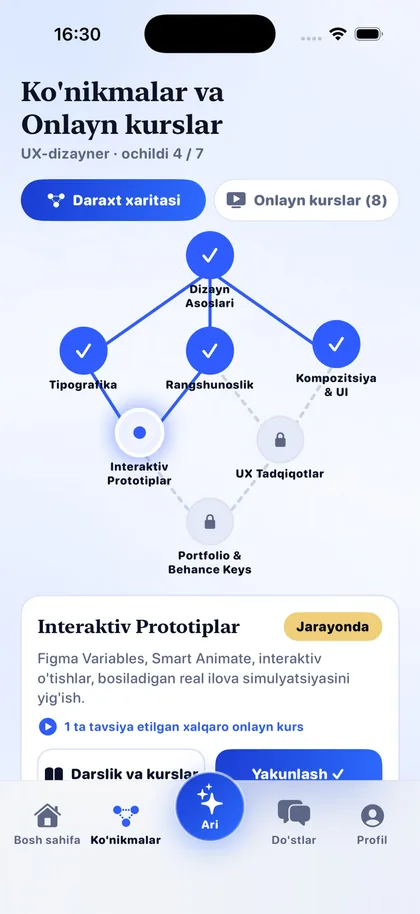
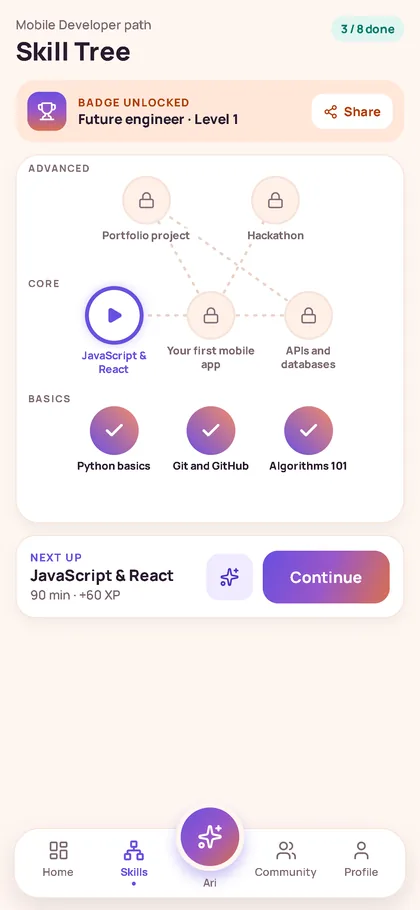
Arise: new app screenshots, arise.nexorastudio.world

diff --git a/site/arise.html b/site/arise.html
@@ -56,7 +56,7 @@
 
     <section class="sec" style="padding-top:0">
       <div class="wrap">
-        <div class="case__media case__media--wide" data-clip style="--glow:#3b5bff"><img src="./assets/shots/arise-skills-720.webp" alt="Arise skill tree for a future UX designer" width="420" height="914" loading="lazy" /><img src="./assets/shots/arise-welcome-720.webp" alt="Arise welcome screen with sign-in by Google, Apple or as a guest" width="420" height="914" loading="lazy" /><img src="./assets/shots/arise-ari-720.webp" alt="Chat with Ari, the AI mentor in Arise" width="420" height="914" loading="lazy" /></div>
+        <div class="case__media case__media--wide" data-clip style="--glow:#3b5bff"><img src="./assets/shots/arise-skills-720.webp" alt="Arise skill tree for a future mobile developer" width="420" height="910" loading="lazy" /><img src="./assets/shots/arise-home-720.webp" alt="Arise home screen with a 12-day streak, the Mobile Developer goal and the next step" width="420" height="910" loading="lazy" /><img src="./assets/shots/arise-ari-720.webp" alt="Chat with Ari, the AI mentor in Arise, about getting into Inha University" width="420" height="910" loading="lazy" /></div>
         <dl class="facts" data-fade><div><dt>Product</dt><dd>Mobile app</dd></div><div><dt>Platforms</dt><dd>iOS and Android</dd></div><div><dt>Languages</dt><dd>Uzbek, Russian, English</dd></div><div><dt>Our role</dt><dd>Product, design, engineering, AI</dd></div><div><dt>Year</dt><dd>2026</dd></div><div><dt>Status</dt><dd>Live · coming to the stores</dd></div></dl>
         <dl class="figs figs--wide" data-fade><div><dt>Languages</dt><dd data-count="3">3</dd></div><div><dt>Platforms</dt><dd data-count="2">2</dd></div><div><dt>Sign-in options</dt><dd data-count="3">3</dd></div></dl>
       </div>
@@ -75,7 +75,7 @@
         <div class="chapter__body">
           <h2 class="cond chapter__title" data-split>A plan for each student, and a mentor to follow it.</h2>
           <div class="features"><div class="feature" data-fade><span class="feature__n">01</span><h3>Personal plan</h3><p>The student picks a goal, for example UX designer. Arise builds a path of skills, courses and next steps around it.</p></div><div class="feature" data-fade><span class="feature__n">02</span><h3>Skill tree</h3><p>Progress is shown as a tree. Finished skills are ticked, the current one is highlighted and the next ones unlock along the way.</p></div><div class="feature" data-fade><span class="feature__n">03</span><h3>Ari, the AI mentor</h3><p>Ari answers questions, explains skills and makes plans, such as a two-week study plan for a future UX designer.</p></div><div class="feature" data-fade><span class="feature__n">04</span><h3>Easy start</h3><p>Sign in with Google or Apple, or try the app as a guest. Light and dark themes are built in.</p></div></div>
-          <div class="shots"><figure class="shot" data-fade><img src="./assets/shots/arise-welcome-720.webp" alt="Arise welcome screen with sign-in by Google, Apple or as a guest" width="420" height="914" loading="lazy" /><figcaption><b>Welcome screen</b>Sign in with Google, Apple or as a guest.</figcaption></figure><figure class="shot" data-fade><img src="./assets/shots/arise-skills-720.webp" alt="Arise skill tree for a future UX designer" width="420" height="914" loading="lazy" /><figcaption><b>Skill tree</b>Skills open one by one, with recommended online courses.</figcaption></figure><figure class="shot" data-fade><img src="./assets/shots/arise-ari-720.webp" alt="Chat with Ari, the AI mentor in Arise" width="420" height="914" loading="lazy" /><figcaption><b>Ari</b>The mentor suggests next steps and replies in the student's language.</figcaption></figure></div>
+          <div class="shots"><figure class="shot" data-fade><img src="./assets/shots/arise-paths-720.webp" alt="Arise career matches: Software Engineering 92%, Data Science & AI 87%, with the reasons why" width="420" height="910" loading="lazy" /><figcaption><b>Career paths</b>Ari matches the student's interests to real careers and explains why each one fits.</figcaption></figure><figure class="shot" data-fade><img src="./assets/shots/arise-home-720.webp" alt="Arise home screen with a 12-day streak, the Mobile Developer goal and the next step" width="420" height="910" loading="lazy" /><figcaption><b>Today</b>A daily plan, a streak and one clear next step towards the goal.</figcaption></figure><figure class="shot" data-fade><img src="./assets/shots/arise-universities-720.webp" alt="Arise university list for Uzbekistan and abroad, with match scores and scholarships" width="420" height="910" loading="lazy" /><figcaption><b>Universities</b>Universities in Uzbekistan and abroad, with match scores and scholarships.</figcaption></figure><figure class="shot" data-fade><img src="./assets/shots/arise-chances-720.webp" alt="Arise chances calculator: 68% readiness and what to improve next" width="420" height="910" loading="lazy" /><figcaption><b>Chances</b>How ready the student is for a university, and exactly what to improve next.</figcaption></figure><figure class="shot" data-fade><img src="./assets/shots/arise-skills-720.webp" alt="Arise skill tree for a future mobile developer" width="420" height="910" loading="lazy" /><figcaption><b>Skill tree</b>Short steps with XP and badges; the next skills unlock along the way.</figcaption></figure><figure class="shot" data-fade><img src="./assets/shots/arise-ari-720.webp" alt="Chat with Ari, the AI mentor in Arise, about getting into Inha University" width="420" height="910" loading="lazy" /><figcaption><b>Ari</b>The AI mentor already knows the plan and answers in the student's language.</figcaption></figure></div>
         </div>
       </section>
       <section class="chapter" id="ari">

diff --git a/site/work.html b/site/work.html
@@ -58,7 +58,7 @@
 
     <section class="case">
       <div class="wrap case__grid">
-        <div class="case__media" data-clip style="--glow:#3b5bff"><img src="./assets/shots/arise-welcome-720.webp" alt="Arise welcome screen with sign-in by Google, Apple or as a guest" width="420" height="914" loading="lazy" /><img src="./assets/shots/arise-ari-720.webp" alt="Chat with Ari, the AI mentor in Arise" width="420" height="914" loading="lazy" /><img src="./assets/shots/arise-skills-720.webp" alt="Arise skill tree for a future UX designer" width="420" height="914" loading="lazy" /></div>
+        <div class="case__media" data-clip style="--glow:#3b5bff"><img src="./assets/shots/arise-home-720.webp" alt="Arise home screen with a 12-day streak, the Mobile Developer goal and the next step" width="420" height="910" loading="lazy" /><img src="./assets/shots/arise-ari-720.webp" alt="Chat with Ari, the AI mentor in Arise, about getting into Inha University" width="420" height="910" loading="lazy" /><img src="./assets/shots/arise-skills-720.webp" alt="Arise skill tree for a future mobile developer" width="420" height="910" loading="lazy" /></div>
         <div class="case__copy">
           <div class="case__meta" data-fade><span>EdTech</span><span>AI</span><span>iOS · Android</span></div>
           <h2 class="cond case__name" data-split>Arise</h2>

diff --git a/tools/build_v11.py b/tools/build_v11.py
@@ -195,9 +195,12 @@ def page(key, title, desc, body, forms=False, absolute=False):
 # ---------------------------------------------------------------- Pieces
 
 SHOTS = {
-    'arise-welcome': ('Arise welcome screen with sign-in by Google, Apple or as a guest', 914),
-    'arise-skills': ('Arise skill tree for a future UX designer', 914),
-    'arise-ari': ('Chat with Ari, the AI mentor in Arise', 914),
+    'arise-paths': ('Arise career matches: Software Engineering 92%, Data Science & AI 87%, with the reasons why', 910),
+    'arise-home': ('Arise home screen with a 12-day streak, the Mobile Developer goal and the next step', 910),
+    'arise-universities': ('Arise university list for Uzbekistan and abroad, with match scores and scholarships', 910),
+    'arise-chances': ('Arise chances calculator: 68% readiness and what to improve next', 910),
+    'arise-skills': ('Arise skill tree for a future mobile developer', 910),
+    'arise-ari': ('Chat with Ari, the AI mentor in Arise, about getting into Inha University', 910),
     'idrok-library': ('IDrok library screen with books in progress', 947),
     'idrok-alif': ('Chat with Alif, the AI librarian in IDrok', 947),
     'idrok-reader': ('IDrok reader settings with themes and text-to-speech', 947),
@@ -377,7 +380,7 @@ def work():
     arise_ = case('Arise', ['EdTech', 'AI', 'iOS · Android'],
                   'Finds the right career, university and grant for each student.',
                   'Students tell Arise what they want to become. Ari, the built-in AI mentor, turns that goal into a plan: which skills to learn, which courses to take and what to do this week.',
-                  ARISE_FIGS, ['arise-welcome', 'arise-ari', 'arise-skills'],
+                  ARISE_FIGS, ['arise-home', 'arise-ari', 'arise-skills'],
                   '#3b5bff', a('arise', 'Read the case study →', 'link'))
     idrok_ = case('IDrok', ['Library', 'AI', 'Android · Web'],
                   'A personal digital library that works on any phone.',
@@ -464,9 +467,12 @@ def arise():
         ('Ari, the AI mentor', 'Ari answers questions, explains skills and makes plans, such as a two-week study plan for a future UX designer.'),
         ('Easy start', 'Sign in with Google or Apple, or try the app as a guest. Light and dark themes are built in.'),
     ]) + '\n' + shots([
-        ('arise-welcome', 'Welcome screen', 'Sign in with Google, Apple or as a guest.'),
-        ('arise-skills', 'Skill tree', 'Skills open one by one, with recommended online courses.'),
-        ('arise-ari', 'Ari', "The mentor suggests next steps and replies in the student's language."),
+        ('arise-paths', 'Career paths', 'Ari matches the student\'s interests to real careers and explains why each one fits.'),
+        ('arise-home', 'Today', 'A daily plan, a streak and one clear next step towards the goal.'),
+        ('arise-universities', 'Universities', 'Universities in Uzbekistan and abroad, with match scores and scholarships.'),
+        ('arise-chances', 'Chances', 'How ready the student is for a university, and exactly what to improve next.'),
+        ('arise-skills', 'Skill tree', 'Short steps with XP and badges; the next skills unlock along the way.'),
+        ('arise-ari', 'Ari', 'The AI mentor already knows the plan and answers in the student\'s language.'),
     ]))
     ch += chapter('03', 'How Ari works', 'An AI mentor that does not make things up.', prose(
         'Students ask direct questions: which university, which subject, which deadline. A fluent answer that invents a scholarship is worse than no answer at all. So Ari is built around retrieval first and generation second. University facts, deadlines and requirements come from a verified catalogue; the model composes the route, not the facts.')
@@ -480,7 +486,7 @@ def arise():
                      'A personal guide to career, university and grants for school students in Uzbekistan. We designed it, built it and run it.',
                      [('Product', 'Mobile app'), ('Platforms', 'iOS and Android'), ('Languages', 'Uzbek, Russian, English'),
                       ('Our role', 'Product, design, engineering, AI'), ('Year', '2026'), ('Status', 'Live · coming to the stores')],
-                     ['arise-skills', 'arise-welcome', 'arise-ari'], '#3b5bff', ARISE_FIGS, ch)
+                     ['arise-skills', 'arise-home', 'arise-ari'], '#3b5bff', ARISE_FIGS, ch)
     return page('arise', 'Arise case study — Nexora Studio',
                 'How we designed and built Arise, a mobile guide to career, university and grants with an AI mentor, Ari.', body)
 
